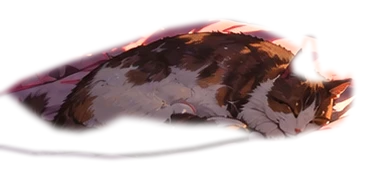
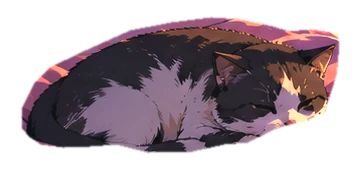
New room art: the cel-shaded studio (cherry-blossom monitors, the cat on a pink bed, a night skyline), in the same four lights; monitors, cat, windows, glows, stars and widget spots re-measured for it, and saved widget spots start fresh

diff --git a/web/src/room/scene.ts b/web/src/room/scene.ts
@@ -10,16 +10,17 @@ export const LIGHTS: Light[] = ["day", "morning", "sunset", "night"];
 export type Quad = [[number, number], [number, number], [number, number], [number, number]];
 
 /** Screen corners (top-left, top-right, bottom-right, bottom-left) of the two front monitors. */
-export const MAIN_SCREEN: Quad = [[748, 351], [1008, 357], [1006, 463], [749, 444]];
-export const SIDE_SCREEN: Quad = [[1023, 373], [1176, 386], [1171, 499], [1019, 473]];
+export const MAIN_SCREEN: Quad = [[857, 320], [1148, 321], [1147, 481], [857, 466]];
+export const SIDE_SCREEN: Quad = [[1172, 348], [1415, 354], [1413, 520], [1172, 497]];
 /** Where the camera looks on the home screen, and the cat (for its speech bubble). */
-export const DESK_FOCUS = { x: 820, y: 420 };
-export const CAT_SPOT = { x: 300, y: 765 };
+export const DESK_FOCUS = { x: 960, y: 430 };
+export const CAT_SPOT = { x: 345, y: 735 };
 
 export const roomUrl = (l: Light) => `room/room-${l}.webp`;
 const catUrl = (part: string, l: Light) => `room/cat-${part}-${l}.webp`;
 
-const WINDOWS: Quad[] = [[[190, 74], [448, 83], [443, 285], [189, 295]], [[818, 52], [998, 46], [998, 276], [818, 280]], [[1036, 38], [1636, 4], [1635, 266], [1041, 280]]];
+/** The window panes (outlines of the glass): birds, clouds, stars and city lights stay inside them. */
+const WINDOWS: [number, number][][] = [[[306, 52], [506, 47], [509, 277], [340, 303]], [[604, 22], [935, 14], [935, 312], [617, 312]], [[958, 8], [1671, 0], [1671, 364], [1388, 329], [959, 309]]];
 
 const STOPS: { m: number; l: Light }[] = [
   { m: 0, l: "night" }, { m: 315, l: "night" }, { m: 435, l: "morning" }, { m: 640, l: "day" },
@@ -81,21 +82,24 @@ const catImages: Record<CatPart, Record<Light, HTMLImageElement>> | null = typeo
 
 export type CatMood = "sleep" | "listen" | "happy";
 
+/** Where the cat's sprites (body, tail, ear: each a full 363×173 frame) sit on the painting. */
+const CAT_BOX = { x: 62, y: 671, w: 363, h: 173 };
+
 /** Hit box around the sleeping cat, in painting pixels. */
-export const catHit = (x: number, y: number) => x > 20 && x < 340 && y > 715 && y < 880;
+export const catHit = (x: number, y: number) => x > 75 && x < 410 && y > 685 && y < 840;
 
 /* ---------- ambience ---------- */
 
 function rng(seed: number) { let s = seed; return () => ((s = (1664525 * s + 1013904223) >>> 0) / 4294967296); }
 const R = rng(132857);
 const DUST = Array.from({ length: 83 }, () => ({ x: R() * W, y: R() * H, r: 0.3 + R() * 1.5, k: 0.9 + R() * 2.1, p: R() * 6.283 }));
-const STARS = Array.from({ length: 58 }, () => ({ x: 1035 + R() * 600, y: 40 + R() * 180, r: 0.35 + R() * 0.8, p: R() * 6.283 }));
-const CITY = Array.from({ length: 185 }, () => ({ x: 1070 + R() * 570, y: 292 + R() * 100, r: 0.5 + R() * 1.4, p: R() * 6.283 }));
+const STARS = Array.from({ length: 58 }, () => ({ x: 975 + R() * 690, y: 18 + R() * 140, r: 0.35 + R() * 0.8, p: R() * 6.283 }));
+const CITY = Array.from({ length: 185 }, () => ({ x: 975 + R() * 690, y: 195 + R() * 120, r: 0.5 + R() * 1.4, p: R() * 6.283 }));
 const BIRDS = [
-  { lane: 2, y: 118, phase: 0.03, speed: 28, size: 1.1, flap: 4.3 }, { lane: 2, y: 146, phase: 0.32, speed: 24, size: 0.82, flap: 4.9 },
-  { lane: 2, y: 177, phase: 0.77, speed: 17, size: 0.56, flap: 3.6 }, { lane: 2, y: 209, phase: 0.53, speed: 15, size: 0.46, flap: 4.5 },
-  { lane: 0, y: 169, phase: 0.32, speed: 12, size: 0.67, flap: 3.1 }, { lane: 0, y: 141, phase: 0.78, speed: 13, size: 0.55, flap: 3.5 },
-  { lane: 1, y: 169, phase: 0.35, speed: 6.5, size: 0.5, flap: 2.6 },
+  { lane: 2, y: 78, phase: 0.03, speed: 28, size: 1.1, flap: 4.3 }, { lane: 2, y: 106, phase: 0.32, speed: 24, size: 0.82, flap: 4.9 },
+  { lane: 2, y: 137, phase: 0.77, speed: 17, size: 0.56, flap: 3.6 }, { lane: 2, y: 169, phase: 0.53, speed: 15, size: 0.46, flap: 4.5 },
+  { lane: 0, y: 129, phase: 0.32, speed: 12, size: 0.67, flap: 3.1 }, { lane: 0, y: 101, phase: 0.78, speed: 13, size: 0.55, flap: 3.5 },
+  { lane: 1, y: 109, phase: 0.35, speed: 6.5, size: 0.5, flap: 2.6 },
 ];
 
 export interface Frame {
@@ -109,9 +113,9 @@ export interface Frame {
   lights: number;
 }
 
-function quadPath(g: CanvasRenderingContext2D, q: Quad) {
+function quadPath(g: CanvasRenderingContext2D, q: readonly (readonly [number, number])[]) {
   g.moveTo(q[0][0], q[0][1]);
-  for (let i = 1; i < 4; i++) g.lineTo(q[i][0], q[i][1]);
+  for (let i = 1; i < q.length; i++) g.lineTo(q[i][0], q[i][1]);
   g.closePath();
 }
 
@@ -120,8 +124,8 @@ function clouds(g: CanvasRenderingContext2D, t: number, lum: number) {
   g.save(); g.beginPath(); WINDOWS.forEach((q) => quadPath(g, q)); g.clip();
   g.globalCompositeOperation = "screen";
   for (let i = 0; i < 11; i++) {
-    const lane = i % 3, [x0, x1] = lane === 0 ? [150, 470] : lane === 1 ? [785, 1035] : [1000, 1670];
-    const dx = x1 - x0, x = x0 + ((i * 0.272 * dx + t * (2.7 + (i % 4))) % (dx + 230)) - 110, y = 70 + ((i * 39) % 165);
+    const lane = i % 3, [x0, x1] = lane === 0 ? [300, 515] : lane === 1 ? [600, 940] : [955, 1670];
+    const dx = x1 - x0, x = x0 + ((i * 0.272 * dx + t * (2.7 + (i % 4))) % (dx + 230)) - 110, y = 40 + ((i * 39) % 165);
     g.globalAlpha = lum * (0.031 + (i % 3) * 0.009); g.fillStyle = "#fff1db";
     g.beginPath(); g.ellipse(x, y, 50 + (i % 3) * 16, 8 + (i % 2) * 4, -0.11, 0, Math.PI * 2); g.fill();
   }
@@ -159,7 +163,7 @@ function atmosphere(g: CanvasRenderingContext2D, t: number, w: Weights) {
   clouds(g, t, daylight);
   g.save(); g.globalCompositeOperation = "screen";
   if (daylight > 0.02) {
-    const x = 1340 + Math.sin(t * 0.18) * 32, y = 90 + Math.cos(t * 0.16) * 14;
+    const x = 1500 + Math.sin(t * 0.18) * 32, y = 200 + Math.cos(t * 0.16) * 14;
     const gr = g.createRadialGradient(x, y, 12, x, y, 510);
     gr.addColorStop(0, `rgba(255,228,157,${(0.065 + 0.014 * Math.sin(t * 0.37)) * daylight})`);
     gr.addColorStop(0.6, `rgba(255,210,143,${0.016 * daylight})`); gr.addColorStop(1, "rgba(255,219,164,0)");
@@ -179,10 +183,11 @@ function atmosphere(g: CanvasRenderingContext2D, t: number, w: Weights) {
   }
   // Screens and the desk lamp glow, much stronger after dark so night feels lived in.
   const lit = 0.25 + night * 0.75;
-  glow(g, 878, 408, 230, "150,175,255", lit * 0.22 * (1 + 0.06 * Math.sin(t * 1.2)));
-  glow(g, 1097, 436, 160, "150,175,255", lit * 0.18 * (1 + 0.06 * Math.sin(t * 1.1 + 2)));
-  glow(g, 878, 520, 260, "255,160,210", night * 0.1);
-  glow(g, 573, 295, 230, "252,168,71", night * 0.32 * (1 + 0.04 * Math.sin(t * 3.1)));
+  glow(g, 1002, 400, 230, "244,170,215", lit * 0.2 * (1 + 0.06 * Math.sin(t * 1.2)));
+  glow(g, 1293, 432, 160, "150,175,255", lit * 0.18 * (1 + 0.06 * Math.sin(t * 1.1 + 2)));
+  glow(g, 1000, 530, 260, "255,160,210", night * 0.1);
+  glow(g, 172, 268, 200, "252,168,71", night * 0.3 * (1 + 0.04 * Math.sin(t * 3.1)));
+  glow(g, 420, 400, 120, "252,168,71", night * 0.22 * (1 + 0.04 * Math.sin(t * 2.7 + 1)));
   g.restore();
 }
 
@@ -209,8 +214,8 @@ function lightsOn(g: CanvasRenderingContext2D, t: number, on: number) {
   // the lamp warms the desk
   if (on > 0.01) {
     g.save(); g.globalCompositeOperation = "screen";
-    glow(g, 573, 300, 300, "255,190,110", 0.5 * on);
-    g.save(); g.translate(600, 480); g.scale(1, 0.34); glow(g, 0, 0, 330, "255,200,130", 0.32 * on); g.restore();
+    glow(g, 172, 268, 280, "255,190,110", 0.5 * on);
+    g.save(); g.translate(760, 540); g.scale(1, 0.34); glow(g, 0, 0, 380, "255,200,130", 0.3 * on); g.restore();
     g.restore();
   }
   // bulbs light one by one, then twinkle
@@ -230,7 +235,7 @@ function plants(g: CanvasRenderingContext2D, t: number, w: Weights) {
   const light = clamp(w.day + w.morning * 0.75 + w.sunset * 0.8 + w.night * 0.4);
   g.save(); g.globalAlpha = 0.16 * light; g.lineCap = "round";
   for (let i = 0; i < 11; i++) {
-    const x = 1312 + i * 27, y = 8 + (i % 4) * 9, sway = Math.sin(t * 0.37 + i * 1.19) * 5;
+    const x = 1430 + i * 22, y = 8 + (i % 4) * 9, sway = Math.sin(t * 0.37 + i * 1.19) * 5;
     g.strokeStyle = i % 2 ? "#2c5130" : "#6f8842"; g.fillStyle = i % 2 ? "#587444" : "#859e52"; g.lineWidth = 1.35;
     g.beginPath(); g.moveTo(x, y); g.quadraticCurveTo(x + sway * 0.3, y + 17, x + sway, y + 36 + (i % 4) * 8); g.stroke();
     g.save(); g.translate(x + sway, y + 32 + (i % 4) * 7); g.rotate(Math.sin(t * 0.41 + i) * 0.07);
@@ -245,7 +250,7 @@ function catPart(g: CanvasRenderingContext2D, part: CatPart, w: Weights, move: (
   for (const l of LIGHTS) {
     const im = catImages[part][l];
     if (!im.complete || !im.naturalWidth || w[l] < 0.005) continue;
-    g.globalAlpha = w[l]; g.drawImage(im, 0, 710, 375, 171);
+    g.globalAlpha = w[l]; g.drawImage(im, CAT_BOX.x, CAT_BOX.y, CAT_BOX.w, CAT_BOX.h);
   }
   g.restore();
 }
@@ -259,9 +264,9 @@ function cat(g: CanvasRenderingContext2D, f: Frame) {
   const tail = 0.014 * Math.sin(t * 0.46) + 0.062 * Math.max(0, Math.sin(t * 0.31 + 2)) ** 9 + Math.sin(since * 13) * 0.13 * poke + lively * 0.05 * Math.sin(t * 1.4);
   const ear = (Math.max(0, Math.sin(t * (f.cat === "listen" ? 1.9 : 0.62) + 2)) ** 20) * 0.12 + Math.max(0, 1 - Math.abs(since) / 0.77) * 0.15 * Math.sin(since * 20);
   // The belly rises gently; scaling is anchored at the lower edge so the feet stay on the blanket.
-  catPart(g, "body", w, () => { g.translate(190, 850); g.scale(1 + 0.002 * breathe, 1 + 0.012 * breathe); g.translate(-190, -850); });
-  catPart(g, "tail", w, () => { g.translate(221, 838); g.rotate(tail); g.translate(-221, -838); });
-  catPart(g, "ear", w, () => { g.translate(312, 788); g.rotate(ear); g.translate(-312, -788); });
+  catPart(g, "body", w, () => { g.translate(243, 820); g.scale(1 + 0.002 * breathe, 1 + 0.012 * breathe); g.translate(-243, -820); });
+  catPart(g, "tail", w, () => { g.translate(124, 801); g.rotate(tail); g.translate(-124, -801); });
+  catPart(g, "ear", w, () => { g.translate(389, 739); g.rotate(ear); g.translate(-389, -739); });
 }
 
 function hearts(g: CanvasRenderingContext2D, f: Frame) {

diff --git a/web/src/desk/desk.css b/web/src/desk/desk.css
@@ -65,7 +65,7 @@
 .ds.app-open .ds-cat { opacity: 0; }
 
 .ds-today { background: #0d0d10; overflow: visible; color: #fff; }
-.ds-t-img { position: absolute; inset: 9px 9px auto 9px; height: 120px; border-radius: 19px 19px 0 0; background-position: 50% 42%; background-size: 300% auto; background-repeat: no-repeat; }
+.ds-t-img { position: absolute; inset: 9px 9px auto 9px; height: 120px; border-radius: 19px 19px 0 0; background-position: 65% 42%; background-size: 300% auto; background-repeat: no-repeat; }
 .ds-t-shape { position: absolute; left: 9px; bottom: 9px; width: calc(100% - 18px); height: calc(100% - 88px); fill: #1b1b20; }
 .ds-t-body { position: absolute; left: 9px; right: 9px; bottom: 9px; top: 79px; padding: 12px 18px 16px; display: flex; flex-direction: column; }
 .ds-t-title { font-weight: 600; font-size: 15px; letter-spacing: -0.01em; margin: 0; color: #fff; white-space: nowrap; }
@@ -90,8 +90,8 @@
 .ds-t-bar i { display: block; height: 100%; background: #ff8a5c; border-radius: inherit; }
 .ds-cat { position: absolute; right: 22px; top: -50px; width: 176px; height: 80px; pointer-events: none; z-index: 2; clip-path: inset(0 0 36% 0); filter: drop-shadow(0 -2px 6px rgba(0, 0, 0, 0.18)); transition: opacity 0.3s; }
 .ds-cat img { position: absolute; inset: 0; width: 100%; height: 100%; }
-.ds-cat .tail { transform-origin: 59% 75%; animation: ds-tail 4.6s ease-in-out infinite; }
-.ds-cat .body { transform-origin: 50% 82%; animation: ds-breathe 3.4s ease-in-out infinite; }
+.ds-cat .tail { transform-origin: 17% 75%; animation: ds-tail 4.6s ease-in-out infinite; }
+.ds-cat .body { transform-origin: 50% 86%; animation: ds-breathe 3.4s ease-in-out infinite; }
 @keyframes ds-tail { 0%, 70%, 100% { transform: rotate(0); } 80% { transform: rotate(4deg); } 90% { transform: rotate(-2deg); } }
 @keyframes ds-breathe { 50% { transform: scale(1.004, 1.018); } }
 

diff --git a/web/src/desk/Floaters.tsx b/web/src/desk/Floaters.tsx
@@ -18,8 +18,9 @@ import { SettingsAppIcon } from "./icons";
  */
 
 type Spot = { x: number; y: number };
-const HOME: Record<string, Spot> = { radio: { x: 1262, y: 452 }, note: { x: 150, y: 232 }, clock: { x: 1180, y: 236 }, plant: { x: 118, y: 560 }, settings: { x: 1400, y: 236 } };
-const KEY = "lilt.room.layout";
+const HOME: Record<string, Spot> = { radio: { x: 1520, y: 345 }, note: { x: 448, y: 250 }, clock: { x: 1150, y: 205 }, plant: { x: 400, y: 545 }, settings: { x: 1390, y: 205 } };
+// Spots are painting pixels, so they're keyed to the painting: new art starts everyone from home.
+const KEY = "lilt.room.layout.cel-studio";
 const load = (): Record<string, Spot> => { try { return JSON.parse(localStorage.getItem(KEY) ?? "{}"); } catch { return {}; } };
 let layout = load();
 const listeners = new Set<() => void>();

diff --git a/web/src/desk/CardStack.tsx b/web/src/desk/CardStack.tsx
@@ -11,7 +11,7 @@ import { setSpot, useLayoutStore } from "./Floaters";
 
 const KIND: Record<DeckItem["kind"], string> = { daily: "Daily", new: "New", review: "Review", again: "Again" };
 const SUB: Record<string, string> = { reference: "The same every day", exercise: "Exercise", text: "Read aloud" };
-const CROPS = ["49% 42%", "8% 30%", "92% 20%", "30% 70%", "70% 60%"];
+const CROPS = ["65% 42%", "8% 30%", "92% 20%", "30% 70%", "70% 60%"];
 const SHAPE = "M0 18 Q0 0 18 0 L160 0 Q172 0 181 8 L197 23 Q205 30 217 30 L282 30 Q300 30 300 48 L300 146 L0 146 Z";
 
 /** Where a card rests at depth d (0 = top): each one higher, a touch smaller, fanned alternately. */
